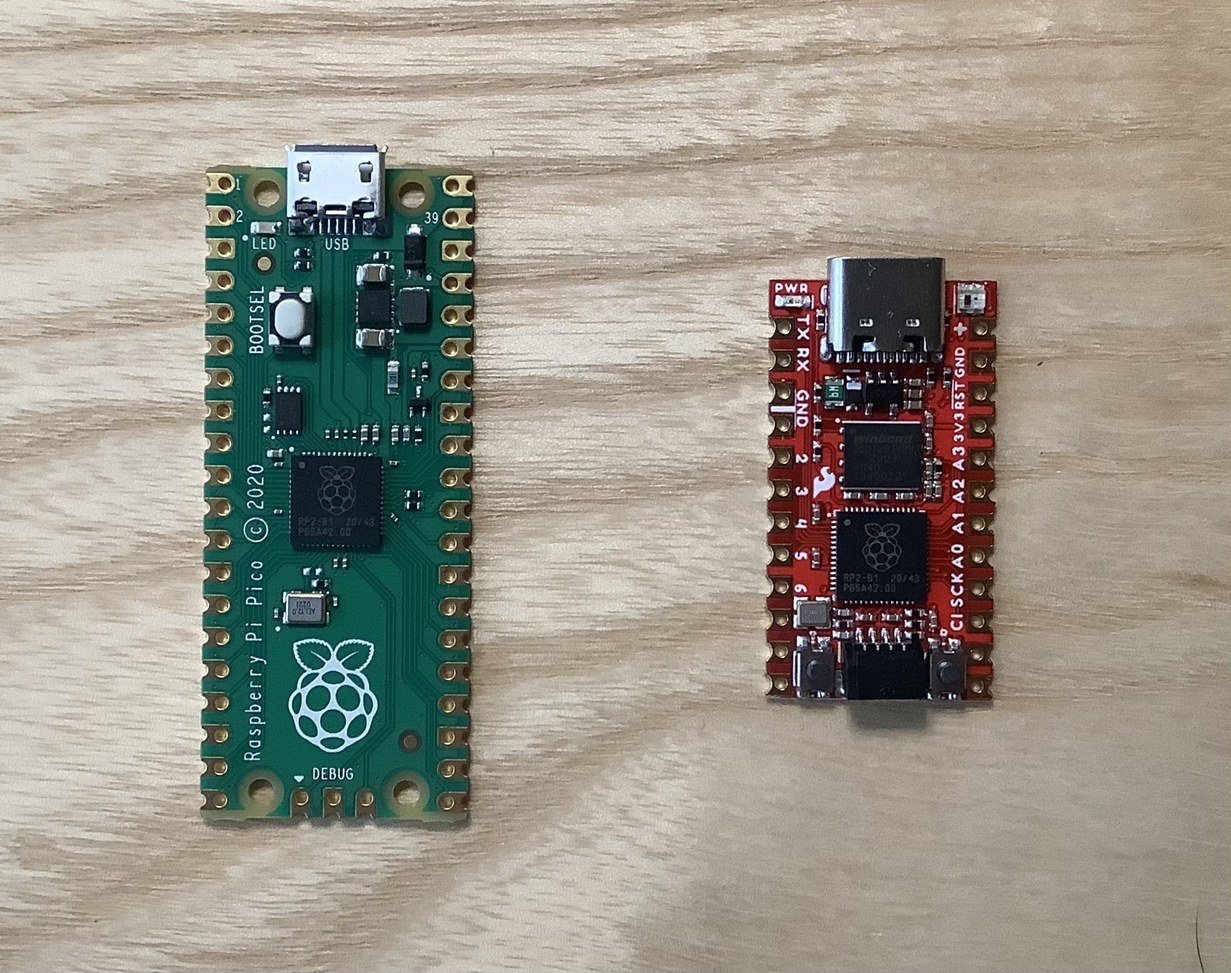
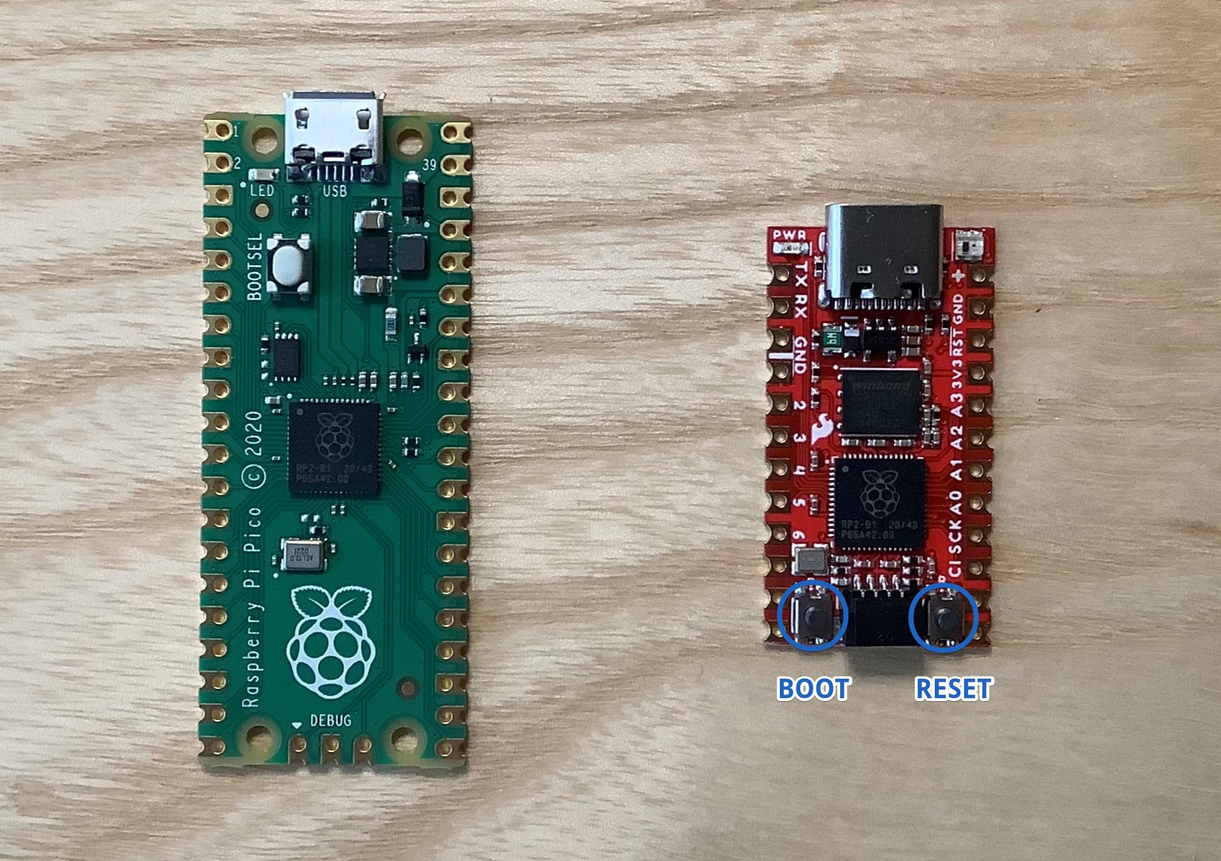
pico_bootsel_via_double_reset

diff --git a/CHANGELOG.md b/CHANGELOG.md
@@ -1,5 +1,11 @@
 # Change log
 
+## 2021/09/12
+### Small improvement
+- Sparkfun Pro Micro RP2040 will reboot to BOOTSEL mode if you double-press RESET button without detaching USB cable!
+
+![](doc/images/RP2040_boards.jpg)
+
 ## 2021/09/10
 ### BIG BIG IMPROVEMENT 🍣
 - You no longer need any compiler toolchain!!!
